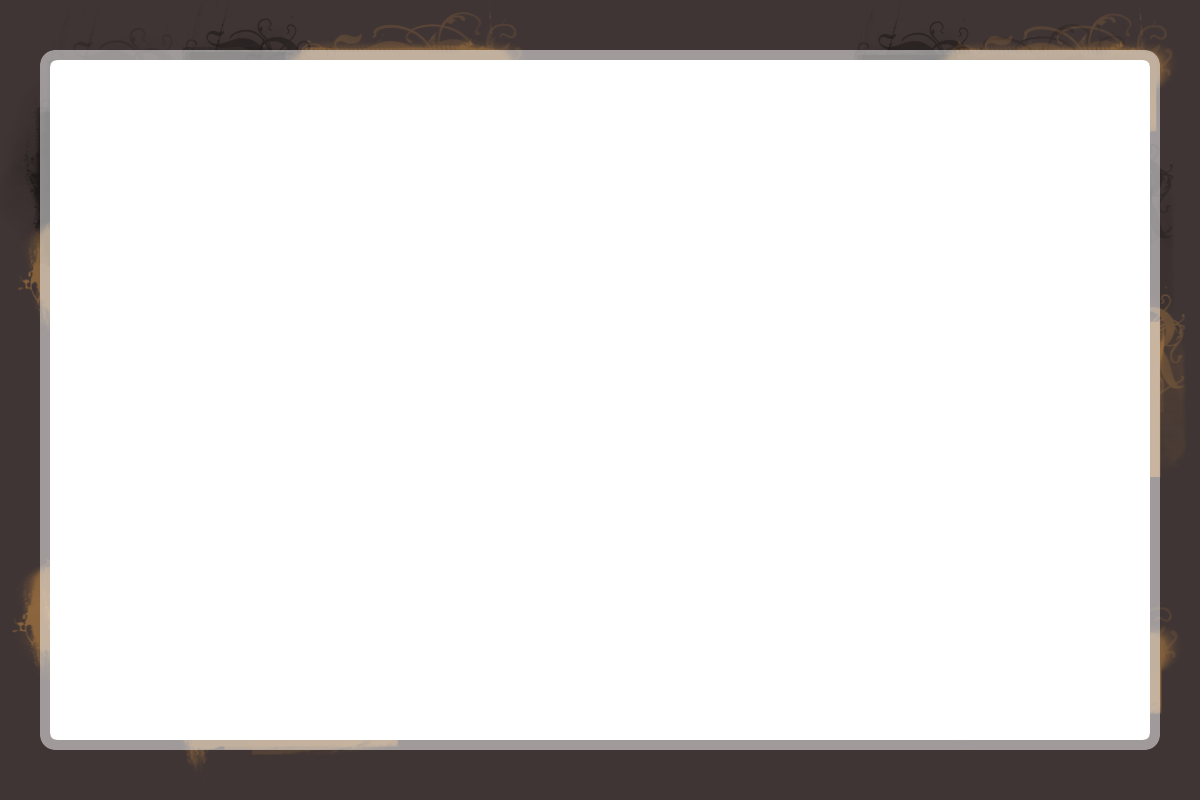
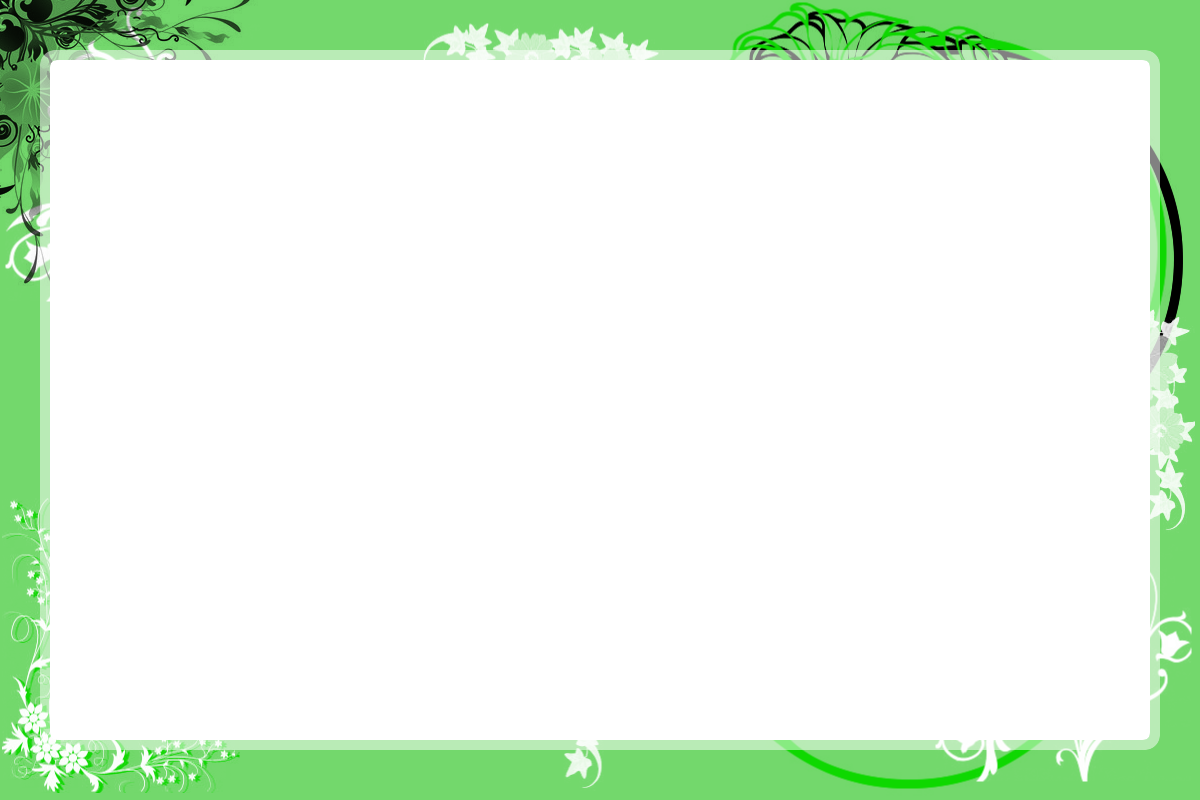
background #2

Changed region(s): [[0.0, 0.0, 1.0, 1.0]]

diff --git a/public/stylesheets/application.css b/public/stylesheets/application.css
@@ -1,5 +1,5 @@
 body {
-  background-color: #3f3534;
+  background-color: #73d86c;
   background-image: url('/images/background.png');
   background-repeat: no-repeat;
   font-family: Verdana, Helvetica, Arial;
@@ -47,22 +47,22 @@ a {
 
 #flash_notice {
   background-color: #CFC;
-  border: solid 1px #6C6; }
+  border: solid 1px #0ED800; }
 
 #flash_error {
-  background-color: #FCC;
-  border: solid 1px #C66; }
+  background-color: #EDB1B8;
+  border: solid 1px #ED001B; }
 
 .fieldWithErrors {
   display: inline; }
 
 #errorExplanation {
   width: 400px;
-  border: 2px solid #CF0000;
+  border: 2px solid #ED001B;
   padding: 0;
   padding-bottom: 12px;
   margin-bottom: 20px;
-  background-color: #f0f0f0; }
+  background-color: #EDB1B8; }
   #errorExplanation h2 {
     text-align: left;
     padding: 5px 5px 5px 15px;

diff --git a/public/stylesheets/sass/application.sass b/public/stylesheets/sass/application.sass
@@ -1,4 +1,4 @@
-!primary_color = #3f3534
+!primary_color = #73d86c
 
 body
   :background-color = !primary_color
@@ -50,22 +50,22 @@ a
 
 #flash_notice
   :background-color #CFC
-  :border solid 1px #6C6
+  :border solid 1px #0ED800
 
 #flash_error
-  :background-color #FCC
-  :border solid 1px #C66
+  :background-color #EDB1B8
+  :border solid 1px #ED001B
 
 .fieldWithErrors
   :display inline
 
 #errorExplanation
   :width 400px
-  :border 2px solid #CF0000
+  :border 2px solid #ED001B
   :padding 0
   :padding-bottom 12px
   :margin-bottom 20px
-  :background-color #f0f0f0
+  :background-color #EDB1B8
   h2
     :text-align left
     :padding 5px 5px 5px 15px
